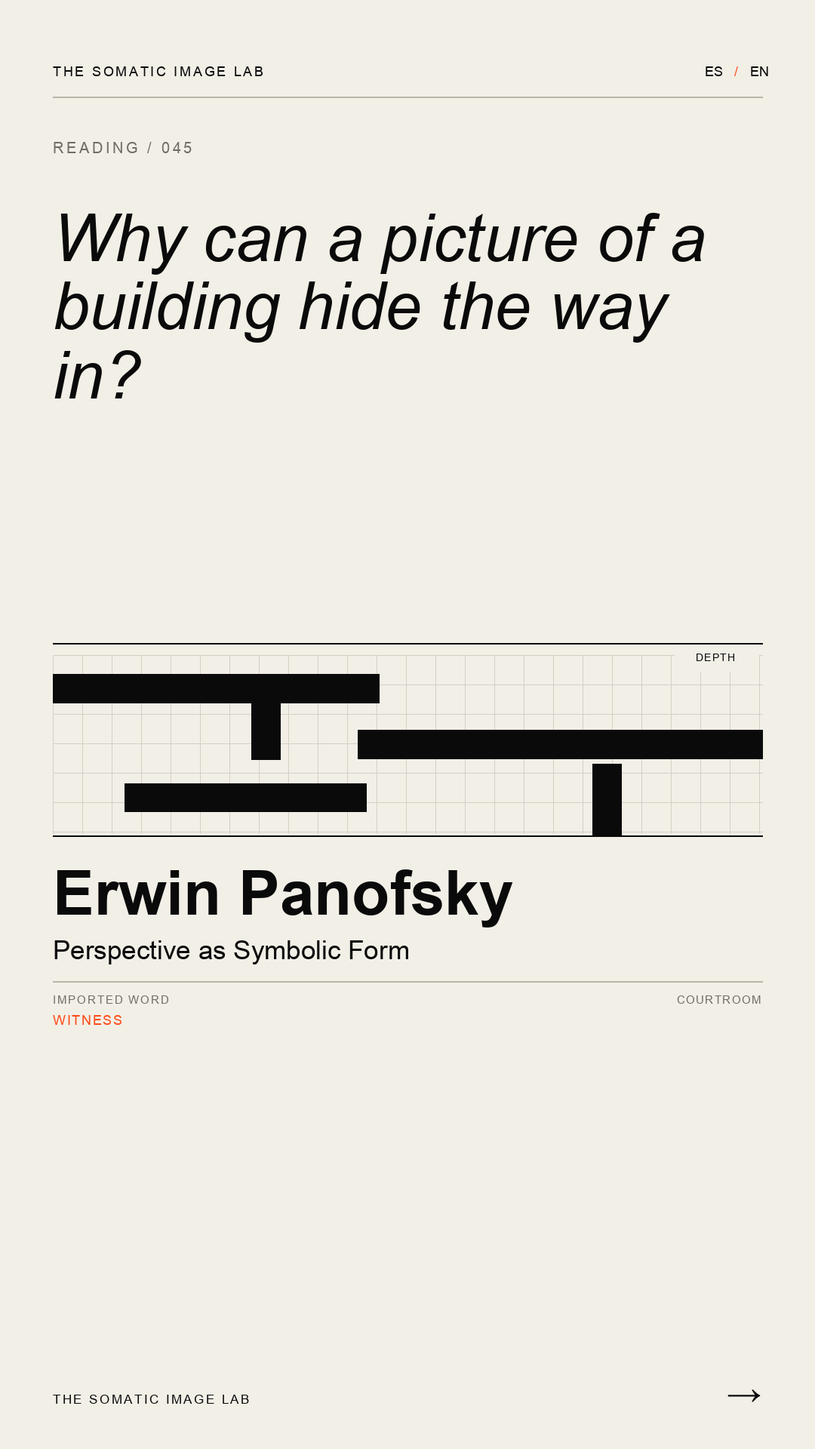
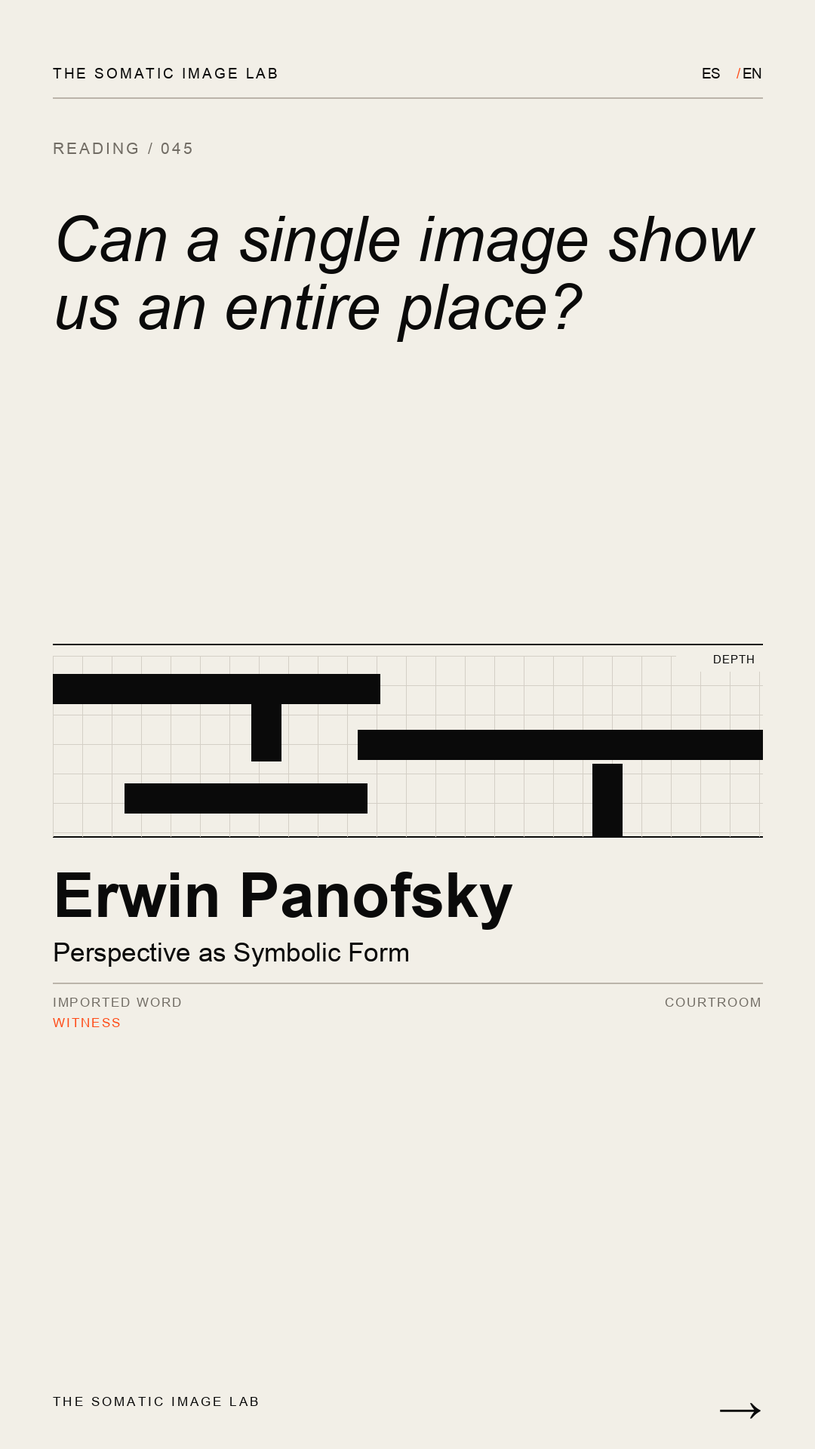
Update Reading 045 question and author-led Story

diff --git a/readings/045-erwin-panofsky-la-perspectiva-como-forma-simbolica/index.html b/readings/045-erwin-panofsky-la-perspectiva-como-forma-simbolica/index.html
@@ -53,7 +53,7 @@
 #tsil-secret-export .tsil-export-note{margin-top:12px;font-size:9px;line-height:1.4;color:#706b63}
 </style>
 <!-- TSIL_SOCIAL_STYLE_END -->
-</head><body><div class="shell"><header class="topbar"><a href="../../index.html">The Somatic Image Lab</a><div class="lang"><a data-inline="es" href="../../index.html">inicio</a><a data-inline="en" href="../../index.html">home</a><button data-switch="es" onclick="setTSILLang('es')">ES</button><button data-switch="en" onclick="setTSILLang('en')">EN</button></div></header><main><section class="hero"><div class="k" data-copy="es">lectura / 045</div><div class="k" data-copy="en">reading / 045</div><h1 class="title" data-copy="es"><span class="mis" data-text="UNA VISTA">UNA VISTA</span><br/>DESDE UN LUGAR</h1><h1 class="title" data-copy="en"><span class="mis" data-text="A VIEW">A VIEW</span><br/>FROM ONE PLACE</h1><div class="author">Erwin Panofsky</div><div class="ante article-ante" data-copy="es">¿Podemos conocer un edificio mirando una sola imagen?</div><div class="ante article-ante" data-copy="en">Can we know a building from a single image?</div><div class="lead article-lead" data-copy="es">Una imagen puede mostrar muy bien un edificio desde cierto lugar. Pero, si cambiamos de posición, vemos cosas que antes estaban ocultas. Panofsky estudia la regla que permite construir esa primera vista: la perspectiva.</div><div class="lead article-lead" data-copy="en">An image can show a building clearly from one place. But if we change position, we see things that were hidden before. Panofsky studies the rule used to make that first view: perspective.</div></section><div class="band text" data-copy="es"><span class="concept" data-text="lugar">lugar</span><span class="step">→ <span class="concept" data-text="imagen">imagen</span></span><span class="step">→ <span class="concept" data-text="visible">visible</span></span><span class="step">→ <span class="concept" data-text="oculto">oculto</span></span></div><div class="band text" data-copy="en"><span class="concept" data-text="position">position</span><span class="step">→ <span class="concept" data-text="image">image</span></span><span class="step">→ <span class="concept" data-text="visible">visible</span></span><span class="step">→ <span class="concept" data-text="hidden">hidden</span></span></div><section class="grid"><div class="section-title" data-copy="es">en 1 minuto</div><div class="section-title" data-copy="en">in 1 minute</div><div class="large" data-copy="es"><p>Imagina dos vías de tren. Sabemos que van una al lado de la otra. Sin embargo, cuando miramos hacia lejos, parecen juntarse. En un dibujo, el lugar donde parecen encontrarse se llama <strong>punto de fuga</strong>.</p><p>La <strong>perspectiva central</strong> usa esa apariencia para mostrar profundidad sobre una superficie plana, como una hoja o una pantalla. Primero se elige un lugar desde donde mirar. Después se dibuja todo según cómo se vería desde allí. Por eso podemos entender qué está cerca y qué está lejos.</p><p>Panofsky nos pide prestar atención a esa primera elección: <strong>¿desde dónde se hizo la imagen?</strong> La perspectiva central muestra el espacio como si lo miráramos desde un único lugar. En la vida cotidiana no miramos así todo el tiempo. Caminamos, giramos la cabeza y vemos lados distintos de las cosas.</p><p>Panofsky también llama a la perspectiva una <strong>forma simbólica</strong>. Con esa expresión, tomada de Ernst Cassirer, quiere decir algo sencillo: una forma de dibujar puede mostrar cómo las personas de una época entienden el espacio. En este caso, el espacio aparece ordenado desde un punto y parece que podemos medirlo. La perspectiva sirve para representarlo, pero no muestra todo lo que una persona verá al moverse por él.</p></div><div class="large" data-copy="en"><p>Imagine two railway tracks. We know they run side by side. Yet, when we look into the distance, they seem to meet. In a drawing, the place where they seem to meet is called the <strong>vanishing point</strong>.</p><p><strong>Central perspective</strong> uses this appearance to show depth on a flat surface, such as a sheet of paper or a screen. First, we choose a place to look from. Then we draw everything as it would appear from there. This helps us tell what is near and what is far away.</p><p>Panofsky asks us to pay attention to that first choice: <strong>where was the image made from?</strong> Central perspective shows space as if we were looking from a single place. In everyday life we do not always look that way. We walk, turn our heads and see different sides of things.</p><p>Panofsky also calls perspective a <strong>symbolic form</strong>. He borrows the expression from Ernst Cassirer. It means something simple: a way of drawing can show how people in a particular period understand space. Here space appears ordered from one point, as something we can measure. Perspective helps us represent it, but cannot show everything a person will see while moving through it.</p></div></section><section class="grid"><div class="section-title" data-copy="es">tres cosas para conservar</div><div class="section-title" data-copy="en">three things to keep</div><div class="" data-copy="es"><div class="keep">Una imagen en perspectiva muestra el espacio desde un lugar elegido.</div><div class="keep">El punto de fuga ayuda a crear profundidad en la imagen. No es un lugar real al final de las vías.</div><div class="keep">Panofsky estudia lo que esa forma de dibujar nos permite ver y la idea de espacio que expresa.</div></div><div class="" data-copy="en"><div class="keep">A perspective image shows space from a chosen place.</div><div class="keep">The vanishing point helps create depth in the image. It is not a real place at the end of the tracks.</div><div class="keep">Panofsky studies what this way of drawing lets us see and the idea of space it expresses.</div></div></section><section class="grid"><div class="section-title" data-copy="es">punto de arrastre</div><div class="section-title" data-copy="en">carry point</div><div class="pressure" data-copy="es">En el <a href="../044-don-ihde-postphenomenology-and-technoscience/index.html">Reading 044 — Don Ihde</a>, una cámara térmica mostraba el calor mediante colores. Para entender la imagen había que saber cómo se produjo y cómo se leían esos colores.<p>Aquí la pregunta continúa: para entender una imagen de un espacio, también necesitamos saber <strong>desde dónde se hizo</strong>. Ese lugar determina qué vemos y qué queda fuera.</p></div><div class="pressure" data-copy="en">In <a href="../044-don-ihde-postphenomenology-and-technoscience/index.html">Reading 044 — Don Ihde</a>, a thermal camera showed heat using colours. To understand the image, we needed to know how it was made and how those colours were read.<p>The question continues here: to understand an image of a space, we also need to know <strong>where it was made from</strong>. That place determines what we see and what remains outside the image.</p></div></section><section class="grid"><div class="section-title" data-copy="es">por ejemplo</div><div class="section-title" data-copy="en">for example</div><div class="large" data-copy="es"><p>La municipalidad presenta una imagen de una biblioteca que quiere construir. La vemos desde la plaza. La fachada parece abierta y la puerta se ve fácil de alcanzar.</p><p>Una persona que usa silla de ruedas quiere saber si podrá entrar por esa puerta. La imagen no le permite comprobarlo: la parte del suelo que está justo delante de la entrada queda fuera del encuadre. Podría haber un escalón, una rampa o una entrada diferente.</p><p>Para averiguarlo, puede pedir una vista lateral y un plano que muestre el recorrido por el suelo. También necesita comprobar que esos documentos correspondan a la misma versión del proyecto.</p><p>La imagen desde la plaza puede mostrar correctamente la fachada. <strong>Lo que no muestra es suficiente para responder cómo se entra.</strong> Si se decide sobre la biblioteca usando solo esa imagen, quienes necesitan conocer el acceso no tienen la información necesaria para discutirlo.</p></div><div class="large" data-copy="en"><p>The municipality presents an image of a library it wants to build. We see it from the square. The front looks open, and the door seems easy to reach.</p><p>A wheelchair user wants to know whether they can enter through that door. The image cannot answer: the ground immediately in front of the entrance is outside the frame. There could be a step, a ramp or a different entrance.</p><p>To find out, they can ask for a side view and a plan showing the route across the ground. They also need to check that these documents show the same version of the project.</p><p>The image from the square may show the front correctly. <strong>What it leaves out is needed to answer how someone can enter.</strong> If the library is decided on using only this image, the people who need to know about access do not have enough information to discuss it.</p></div></section><section class="grid"><div class="section-title" data-copy="es">residuo</div><div class="section-title" data-copy="en">residue</div><div class="residue" data-copy="es">Una vista nos ayuda a imaginar cómo se verá un lugar. Para saber cómo podremos usarlo, tenemos que verlo desde otros puntos y comprobar lo que queda fuera de la primera imagen.</div><div class="residue" data-copy="en">One view helps us imagine how a place will look. To know how we can use it, we must see it from other positions and check what the first image leaves out.</div></section><div class="error"><section class="grid" style="border-top:0;padding-top:0"><div class="section-title" data-copy="es">máquina de error</div><div class="section-title" data-copy="en">error machine</div><div><div class="error-card"><div class="ey" data-copy="es">contexto importado</div><div class="ey" data-copy="en">imported context</div><div class="error-context" data-copy="es">UN JUICIO</div><div class="error-context" data-copy="en">A COURTROOM</div><div class="ey" data-copy="es">palabra importada</div><div class="ey" data-copy="en">imported word</div><div class="word error-word" data-copy="es">TESTIGO</div><div class="word error-word" data-copy="en">WITNESS</div><div class="ey" data-copy="es">colisión</div><div class="ey" data-copy="en">collision</div><div class="collision" data-copy="es">perspectiva × testigo</div><div class="collision" data-copy="en">perspective × witness</div><div class="ey" data-copy="es">error forzado</div><div class="ey" data-copy="en">forced error</div><div class="statement" data-copy="es">El punto de fuga declara como testigo.</div><div class="statement" data-copy="en">The vanishing point speaks as a witness.</div><div class="ey" data-copy="es">lo que se escapó</div><div class="ey" data-copy="en">what escaped</div><div class="opening" data-copy="es"><p>En un juicio, un <strong>testigo</strong> cuenta lo que vio. Podemos preguntarle dónde estaba y qué no alcanzó a ver.</p><p>TSIL trae esa palabra al reading. <strong>«Testigo» no es un concepto de Panofsky.</strong> Un punto de fuga no es una persona: no estuvo frente a la biblioteca ni puede responder preguntas. Por eso la frase es un error.</p><p>Pero ese error nos permite hacerle preguntas a la <em>imagen</em>, o a quienes la hicieron: ¿desde dónde se dibujó? ¿Qué parte del edificio queda fuera? ¿Hay otras vistas? Así, la imagen deja de ser la respuesta final y se convierte en una propuesta que otras personas pueden comprobar.</p></div><div class="opening" data-copy="en"><p>In court, a <strong>witness</strong> describes what they saw. We can ask where they stood and what they could not see.</p><p>TSIL brings this word into the reading. <strong>“Witness” is not Panofsky’s concept.</strong> A vanishing point is not a person: it did not stand in front of the library and cannot answer questions. That is why the sentence is an error.</p><p>But the error allows us to question the <em>image</em>, or the people who made it: where was it drawn from? What part of the building is left out? Are there other views? The image is no longer the final answer. It becomes a proposal that others can check.</p></div><div class="ey" data-copy="es">pregunta que queda</div><div class="ey" data-copy="en">question left behind</div><div class="question" data-copy="es">¿Quién puede pedir otra vista antes de que se decida sobre un espacio que tendrá que usar?</div><div class="question" data-copy="en">Who can ask for another view before a decision is made about a space they will have to use?</div></div></div></section><div class="reject"><div class="x">×</div><div><div class="ey" data-copy="es">error que no produjo nada</div><div class="ey" data-copy="en">error that produced nothing</div><div class="reject-text" data-copy="es">Todas las imágenes en perspectiva engañan.</div><div class="reject-text" data-copy="en">All perspective images are deceptive.</div><div class="reject-note" data-copy="es">DESCARTADO. La imagen puede mostrar bien lo que se ve desde un lugar. El problema aparece cuando esperamos que también muestre lo que queda fuera de esa vista.</div><div class="reject-note" data-copy="en">DISCARDED. An image can show what is visible from one place well. The problem begins when we expect it to show what lies outside that view too.</div></div></div></div><section class="grid"><div class="section-title" data-copy="es">arrastre</div><div class="section-title" data-copy="en">carry</div><div><div class="carry-rule" data-copy="es">Estas preguntas condensan las tensiones entre el texto leído y su Máquina de Error. Dialogan entre sí y heredan contaminaciones previas para abrir preguntas nuevas.</div><div class="carry-rule" data-copy="en">These questions condense tensions between the text and its Error Machine. They speak to one another and inherit previous collisions to open new questions.</div><div class="reading-nav"><a href="../044-don-ihde-postphenomenology-and-technoscience/index.html"><div><div class="nav-label" data-copy="es">← viene de 044 · Don Ihde</div><div class="nav-label" data-copy="en">← comes from 044 · Don Ihde</div><div class="nav-q" data-copy="es">¿Quién paga el costo cuando una imagen decide por una persona y esa persona no puede discutir su lectura?</div><div class="nav-q" data-copy="en">Who bears the cost when an image decides for someone who cannot challenge its reading?</div></div></a><div class="pending next"><div><div class="nav-label" data-copy="es">hacia el próximo texto →</div><div class="nav-label" data-copy="en">toward the next text →</div><div class="nav-q" data-copy="es">¿Quién puede pedir otra vista antes de que se decida sobre un espacio que tendrá que usar?</div><div class="nav-q" data-copy="en">Who can ask for another view before a decision is made about a space they will have to use?</div></div></div></div></div></section><section class="grid"><div class="section-title" data-copy="es">sobre esta máquina</div><div class="section-title" data-copy="en">about this machine</div><div class="about" data-copy="es">Esta máquina de lectura fue creada por Kurt Wesp Yianatos. Produce lecturas asistidas por inteligencia artificial y fuerza errores, desvíos y asociaciones improbables para abrir preguntas en lugar de cerrarlas.<div class="identity"><span>Kurt Wesp Yianatos</span><span class="tsil-secret-story">KWY-A⁰¹RTBORG</span><a href="https://www.kurtwespyianatos.com/">kurtwespyianatos.com</a><a href="https://www.kwydesign.com/">kwydesign.com</a></div></div><div class="about" data-copy="en">This reading machine was created by Kurt Wesp Yianatos. It produces AI-assisted readings and forces errors, deviations, and unlikely associations to open questions rather than close them.<div class="identity"><span>Kurt Wesp Yianatos</span><span class="tsil-secret-story">KWY-A⁰¹RTBORG</span><a href="https://www.kurtwespyianatos.com/">kurtwespyianatos.com</a><a href="https://www.kwydesign.com/">kwydesign.com</a></div></div></section></main></div><!-- TSIL_SOCIAL_SCRIPT_START -->
+</head><body><div class="shell"><header class="topbar"><a href="../../index.html">The Somatic Image Lab</a><div class="lang"><a data-inline="es" href="../../index.html">inicio</a><a data-inline="en" href="../../index.html">home</a><button data-switch="es" onclick="setTSILLang('es')">ES</button><button data-switch="en" onclick="setTSILLang('en')">EN</button></div></header><main><section class="hero"><div class="k" data-copy="es">lectura / 045</div><div class="k" data-copy="en">reading / 045</div><h1 class="title" data-copy="es"><span class="mis" data-text="UNA VISTA">UNA VISTA</span><br/>DESDE UN LUGAR</h1><h1 class="title" data-copy="en"><span class="mis" data-text="A VIEW">A VIEW</span><br/>FROM ONE PLACE</h1><div class="author">Erwin Panofsky</div><div class="ante article-ante" data-copy="es">¿Puede una sola imagen mostrarnos todo un lugar?</div><div class="ante article-ante" data-copy="en">Can a single image show us an entire place?</div><div class="lead article-lead" data-copy="es">Una imagen puede mostrar muy bien un edificio desde cierto lugar. Pero, si cambiamos de posición, vemos cosas que antes estaban ocultas. Panofsky estudia la regla que permite construir esa primera vista: la perspectiva.</div><div class="lead article-lead" data-copy="en">An image can show a building clearly from one place. But if we change position, we see things that were hidden before. Panofsky studies the rule used to make that first view: perspective.</div></section><div class="band text" data-copy="es"><span class="concept" data-text="lugar">lugar</span><span class="step">→ <span class="concept" data-text="imagen">imagen</span></span><span class="step">→ <span class="concept" data-text="visible">visible</span></span><span class="step">→ <span class="concept" data-text="oculto">oculto</span></span></div><div class="band text" data-copy="en"><span class="concept" data-text="position">position</span><span class="step">→ <span class="concept" data-text="image">image</span></span><span class="step">→ <span class="concept" data-text="visible">visible</span></span><span class="step">→ <span class="concept" data-text="hidden">hidden</span></span></div><section class="grid"><div class="section-title" data-copy="es">en 1 minuto</div><div class="section-title" data-copy="en">in 1 minute</div><div class="large" data-copy="es"><p>Imagina dos vías de tren. Sabemos que van una al lado de la otra. Sin embargo, cuando miramos hacia lejos, parecen juntarse. En un dibujo, el lugar donde parecen encontrarse se llama <strong>punto de fuga</strong>.</p><p>La <strong>perspectiva central</strong> usa esa apariencia para mostrar profundidad sobre una superficie plana, como una hoja o una pantalla. Primero se elige un lugar desde donde mirar. Después se dibuja todo según cómo se vería desde allí. Por eso podemos entender qué está cerca y qué está lejos.</p><p>Panofsky nos pide prestar atención a esa primera elección: <strong>¿desde dónde se hizo la imagen?</strong> La perspectiva central muestra el espacio como si lo miráramos desde un único lugar. En la vida cotidiana no miramos así todo el tiempo. Caminamos, giramos la cabeza y vemos lados distintos de las cosas.</p><p>Panofsky también llama a la perspectiva una <strong>forma simbólica</strong>. Con esa expresión, tomada de Ernst Cassirer, quiere decir algo sencillo: una forma de dibujar puede mostrar cómo las personas de una época entienden el espacio. En este caso, el espacio aparece ordenado desde un punto y parece que podemos medirlo. La perspectiva sirve para representarlo, pero no muestra todo lo que una persona verá al moverse por él.</p></div><div class="large" data-copy="en"><p>Imagine two railway tracks. We know they run side by side. Yet, when we look into the distance, they seem to meet. In a drawing, the place where they seem to meet is called the <strong>vanishing point</strong>.</p><p><strong>Central perspective</strong> uses this appearance to show depth on a flat surface, such as a sheet of paper or a screen. First, we choose a place to look from. Then we draw everything as it would appear from there. This helps us tell what is near and what is far away.</p><p>Panofsky asks us to pay attention to that first choice: <strong>where was the image made from?</strong> Central perspective shows space as if we were looking from a single place. In everyday life we do not always look that way. We walk, turn our heads and see different sides of things.</p><p>Panofsky also calls perspective a <strong>symbolic form</strong>. He borrows the expression from Ernst Cassirer. It means something simple: a way of drawing can show how people in a particular period understand space. Here space appears ordered from one point, as something we can measure. Perspective helps us represent it, but cannot show everything a person will see while moving through it.</p></div></section><section class="grid"><div class="section-title" data-copy="es">tres cosas para conservar</div><div class="section-title" data-copy="en">three things to keep</div><div class="" data-copy="es"><div class="keep">Una imagen en perspectiva muestra el espacio desde un lugar elegido.</div><div class="keep">El punto de fuga ayuda a crear profundidad en la imagen. No es un lugar real al final de las vías.</div><div class="keep">Panofsky estudia lo que esa forma de dibujar nos permite ver y la idea de espacio que expresa.</div></div><div class="" data-copy="en"><div class="keep">A perspective image shows space from a chosen place.</div><div class="keep">The vanishing point helps create depth in the image. It is not a real place at the end of the tracks.</div><div class="keep">Panofsky studies what this way of drawing lets us see and the idea of space it expresses.</div></div></section><section class="grid"><div class="section-title" data-copy="es">punto de arrastre</div><div class="section-title" data-copy="en">carry point</div><div class="pressure" data-copy="es">En el <a href="../044-don-ihde-postphenomenology-and-technoscience/index.html">Reading 044 — Don Ihde</a>, una cámara térmica mostraba el calor mediante colores. Para entender la imagen había que saber cómo se produjo y cómo se leían esos colores.<p>Aquí la pregunta continúa: para entender una imagen de un espacio, también necesitamos saber <strong>desde dónde se hizo</strong>. Ese lugar determina qué vemos y qué queda fuera.</p></div><div class="pressure" data-copy="en">In <a href="../044-don-ihde-postphenomenology-and-technoscience/index.html">Reading 044 — Don Ihde</a>, a thermal camera showed heat using colours. To understand the image, we needed to know how it was made and how those colours were read.<p>The question continues here: to understand an image of a space, we also need to know <strong>where it was made from</strong>. That place determines what we see and what remains outside the image.</p></div></section><section class="grid"><div class="section-title" data-copy="es">por ejemplo</div><div class="section-title" data-copy="en">for example</div><div class="large" data-copy="es"><p>La municipalidad presenta una imagen de una biblioteca que quiere construir. La vemos desde la plaza. La fachada parece abierta y la puerta se ve fácil de alcanzar.</p><p>Una persona que usa silla de ruedas quiere saber si podrá entrar por esa puerta. La imagen no le permite comprobarlo: la parte del suelo que está justo delante de la entrada queda fuera del encuadre. Podría haber un escalón, una rampa o una entrada diferente.</p><p>Para averiguarlo, puede pedir una vista lateral y un plano que muestre el recorrido por el suelo. También necesita comprobar que esos documentos correspondan a la misma versión del proyecto.</p><p>La imagen desde la plaza puede mostrar correctamente la fachada. <strong>Lo que no muestra es suficiente para responder cómo se entra.</strong> Si se decide sobre la biblioteca usando solo esa imagen, quienes necesitan conocer el acceso no tienen la información necesaria para discutirlo.</p></div><div class="large" data-copy="en"><p>The municipality presents an image of a library it wants to build. We see it from the square. The front looks open, and the door seems easy to reach.</p><p>A wheelchair user wants to know whether they can enter through that door. The image cannot answer: the ground immediately in front of the entrance is outside the frame. There could be a step, a ramp or a different entrance.</p><p>To find out, they can ask for a side view and a plan showing the route across the ground. They also need to check that these documents show the same version of the project.</p><p>The image from the square may show the front correctly. <strong>What it leaves out is needed to answer how someone can enter.</strong> If the library is decided on using only this image, the people who need to know about access do not have enough information to discuss it.</p></div></section><section class="grid"><div class="section-title" data-copy="es">residuo</div><div class="section-title" data-copy="en">residue</div><div class="residue" data-copy="es">Una vista nos ayuda a imaginar cómo se verá un lugar. Para saber cómo podremos usarlo, tenemos que verlo desde otros puntos y comprobar lo que queda fuera de la primera imagen.</div><div class="residue" data-copy="en">One view helps us imagine how a place will look. To know how we can use it, we must see it from other positions and check what the first image leaves out.</div></section><div class="error"><section class="grid" style="border-top:0;padding-top:0"><div class="section-title" data-copy="es">máquina de error</div><div class="section-title" data-copy="en">error machine</div><div><div class="error-card"><div class="ey" data-copy="es">contexto importado</div><div class="ey" data-copy="en">imported context</div><div class="error-context" data-copy="es">UN JUICIO</div><div class="error-context" data-copy="en">A COURTROOM</div><div class="ey" data-copy="es">palabra importada</div><div class="ey" data-copy="en">imported word</div><div class="word error-word" data-copy="es">TESTIGO</div><div class="word error-word" data-copy="en">WITNESS</div><div class="ey" data-copy="es">colisión</div><div class="ey" data-copy="en">collision</div><div class="collision" data-copy="es">perspectiva × testigo</div><div class="collision" data-copy="en">perspective × witness</div><div class="ey" data-copy="es">error forzado</div><div class="ey" data-copy="en">forced error</div><div class="statement" data-copy="es">El punto de fuga declara como testigo.</div><div class="statement" data-copy="en">The vanishing point speaks as a witness.</div><div class="ey" data-copy="es">lo que se escapó</div><div class="ey" data-copy="en">what escaped</div><div class="opening" data-copy="es"><p>En un juicio, un <strong>testigo</strong> cuenta lo que vio. Podemos preguntarle dónde estaba y qué no alcanzó a ver.</p><p>TSIL trae esa palabra al reading. <strong>«Testigo» no es un concepto de Panofsky.</strong> Un punto de fuga no es una persona: no estuvo frente a la biblioteca ni puede responder preguntas. Por eso la frase es un error.</p><p>Pero ese error nos permite hacerle preguntas a la <em>imagen</em>, o a quienes la hicieron: ¿desde dónde se dibujó? ¿Qué parte del edificio queda fuera? ¿Hay otras vistas? Así, la imagen deja de ser la respuesta final y se convierte en una propuesta que otras personas pueden comprobar.</p></div><div class="opening" data-copy="en"><p>In court, a <strong>witness</strong> describes what they saw. We can ask where they stood and what they could not see.</p><p>TSIL brings this word into the reading. <strong>“Witness” is not Panofsky’s concept.</strong> A vanishing point is not a person: it did not stand in front of the library and cannot answer questions. That is why the sentence is an error.</p><p>But the error allows us to question the <em>image</em>, or the people who made it: where was it drawn from? What part of the building is left out? Are there other views? The image is no longer the final answer. It becomes a proposal that others can check.</p></div><div class="ey" data-copy="es">pregunta que queda</div><div class="ey" data-copy="en">question left behind</div><div class="question" data-copy="es">¿Quién puede pedir otra vista antes de que se decida sobre un espacio que tendrá que usar?</div><div class="question" data-copy="en">Who can ask for another view before a decision is made about a space they will have to use?</div></div></div></section><div class="reject"><div class="x">×</div><div><div class="ey" data-copy="es">error que no produjo nada</div><div class="ey" data-copy="en">error that produced nothing</div><div class="reject-text" data-copy="es">Todas las imágenes en perspectiva engañan.</div><div class="reject-text" data-copy="en">All perspective images are deceptive.</div><div class="reject-note" data-copy="es">DESCARTADO. La imagen puede mostrar bien lo que se ve desde un lugar. El problema aparece cuando esperamos que también muestre lo que queda fuera de esa vista.</div><div class="reject-note" data-copy="en">DISCARDED. An image can show what is visible from one place well. The problem begins when we expect it to show what lies outside that view too.</div></div></div></div><section class="grid"><div class="section-title" data-copy="es">arrastre</div><div class="section-title" data-copy="en">carry</div><div><div class="carry-rule" data-copy="es">Estas preguntas condensan las tensiones entre el texto leído y su Máquina de Error. Dialogan entre sí y heredan contaminaciones previas para abrir preguntas nuevas.</div><div class="carry-rule" data-copy="en">These questions condense tensions between the text and its Error Machine. They speak to one another and inherit previous collisions to open new questions.</div><div class="reading-nav"><a href="../044-don-ihde-postphenomenology-and-technoscience/index.html"><div><div class="nav-label" data-copy="es">← viene de 044 · Don Ihde</div><div class="nav-label" data-copy="en">← comes from 044 · Don Ihde</div><div class="nav-q" data-copy="es">¿Quién paga el costo cuando una imagen decide por una persona y esa persona no puede discutir su lectura?</div><div class="nav-q" data-copy="en">Who bears the cost when an image decides for someone who cannot challenge its reading?</div></div></a><div class="pending next"><div><div class="nav-label" data-copy="es">hacia el próximo texto →</div><div class="nav-label" data-copy="en">toward the next text →</div><div class="nav-q" data-copy="es">¿Quién puede pedir otra vista antes de que se decida sobre un espacio que tendrá que usar?</div><div class="nav-q" data-copy="en">Who can ask for another view before a decision is made about a space they will have to use?</div></div></div></div></div></section><section class="grid"><div class="section-title" data-copy="es">sobre esta máquina</div><div class="section-title" data-copy="en">about this machine</div><div class="about" data-copy="es">Esta máquina de lectura fue creada por Kurt Wesp Yianatos. Produce lecturas asistidas por inteligencia artificial y fuerza errores, desvíos y asociaciones improbables para abrir preguntas en lugar de cerrarlas.<div class="identity"><span>Kurt Wesp Yianatos</span><span class="tsil-secret-story">KWY-A⁰¹RTBORG</span><a href="https://www.kurtwespyianatos.com/">kurtwespyianatos.com</a><a href="https://www.kwydesign.com/">kwydesign.com</a></div></div><div class="about" data-copy="en">This reading machine was created by Kurt Wesp Yianatos. It produces AI-assisted readings and forces errors, deviations, and unlikely associations to open questions rather than close them.<div class="identity"><span>Kurt Wesp Yianatos</span><span class="tsil-secret-story">KWY-A⁰¹RTBORG</span><a href="https://www.kurtwespyianatos.com/">kurtwespyianatos.com</a><a href="https://www.kwydesign.com/">kwydesign.com</a></div></div></section></main></div><!-- TSIL_SOCIAL_SCRIPT_START -->
 <script id="tsil-social-secret-runtime" src="../../assets/social-export.js" defer></script>
 <!-- TSIL_SOCIAL_SCRIPT_END -->
 </body></html>
